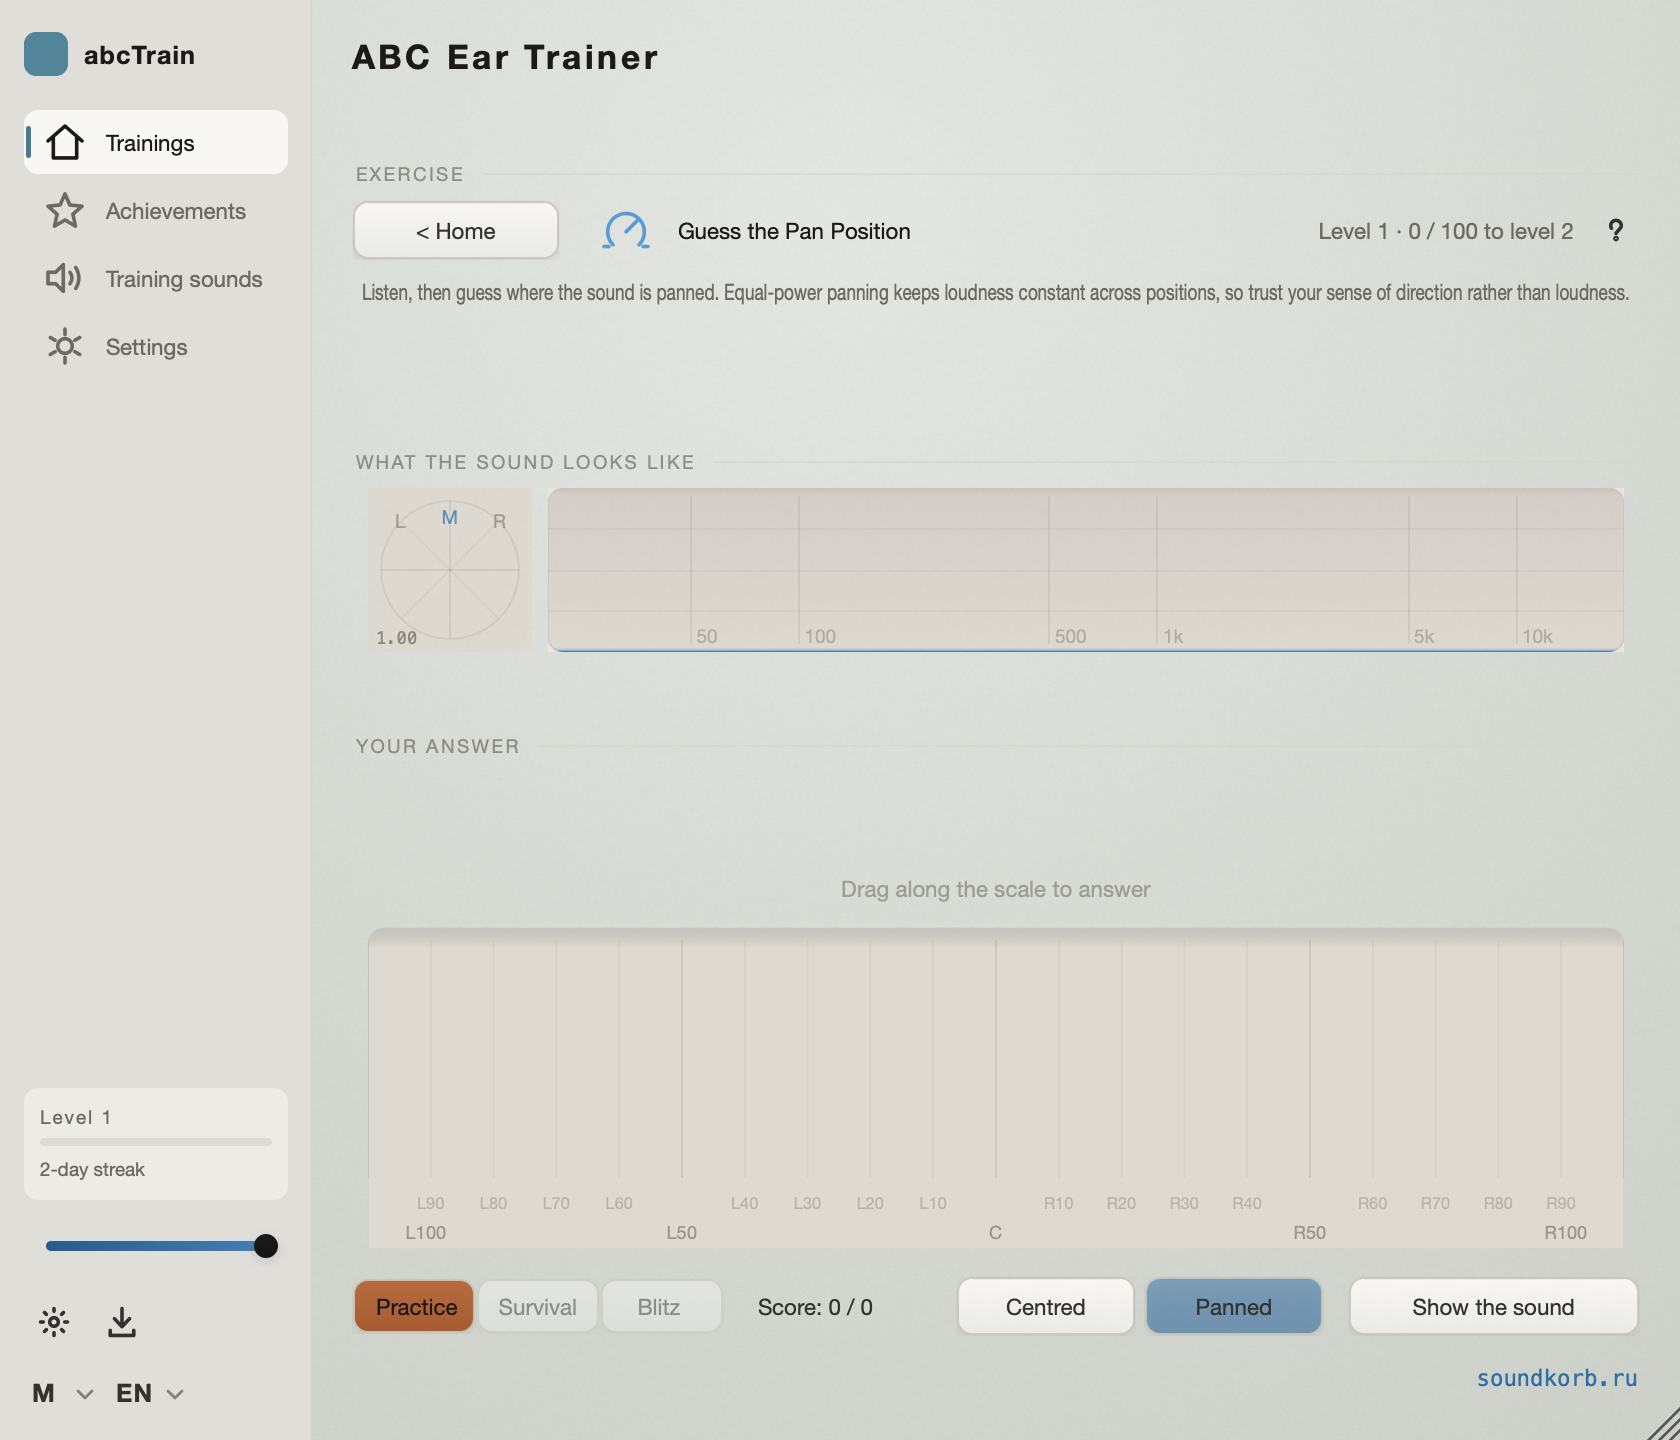
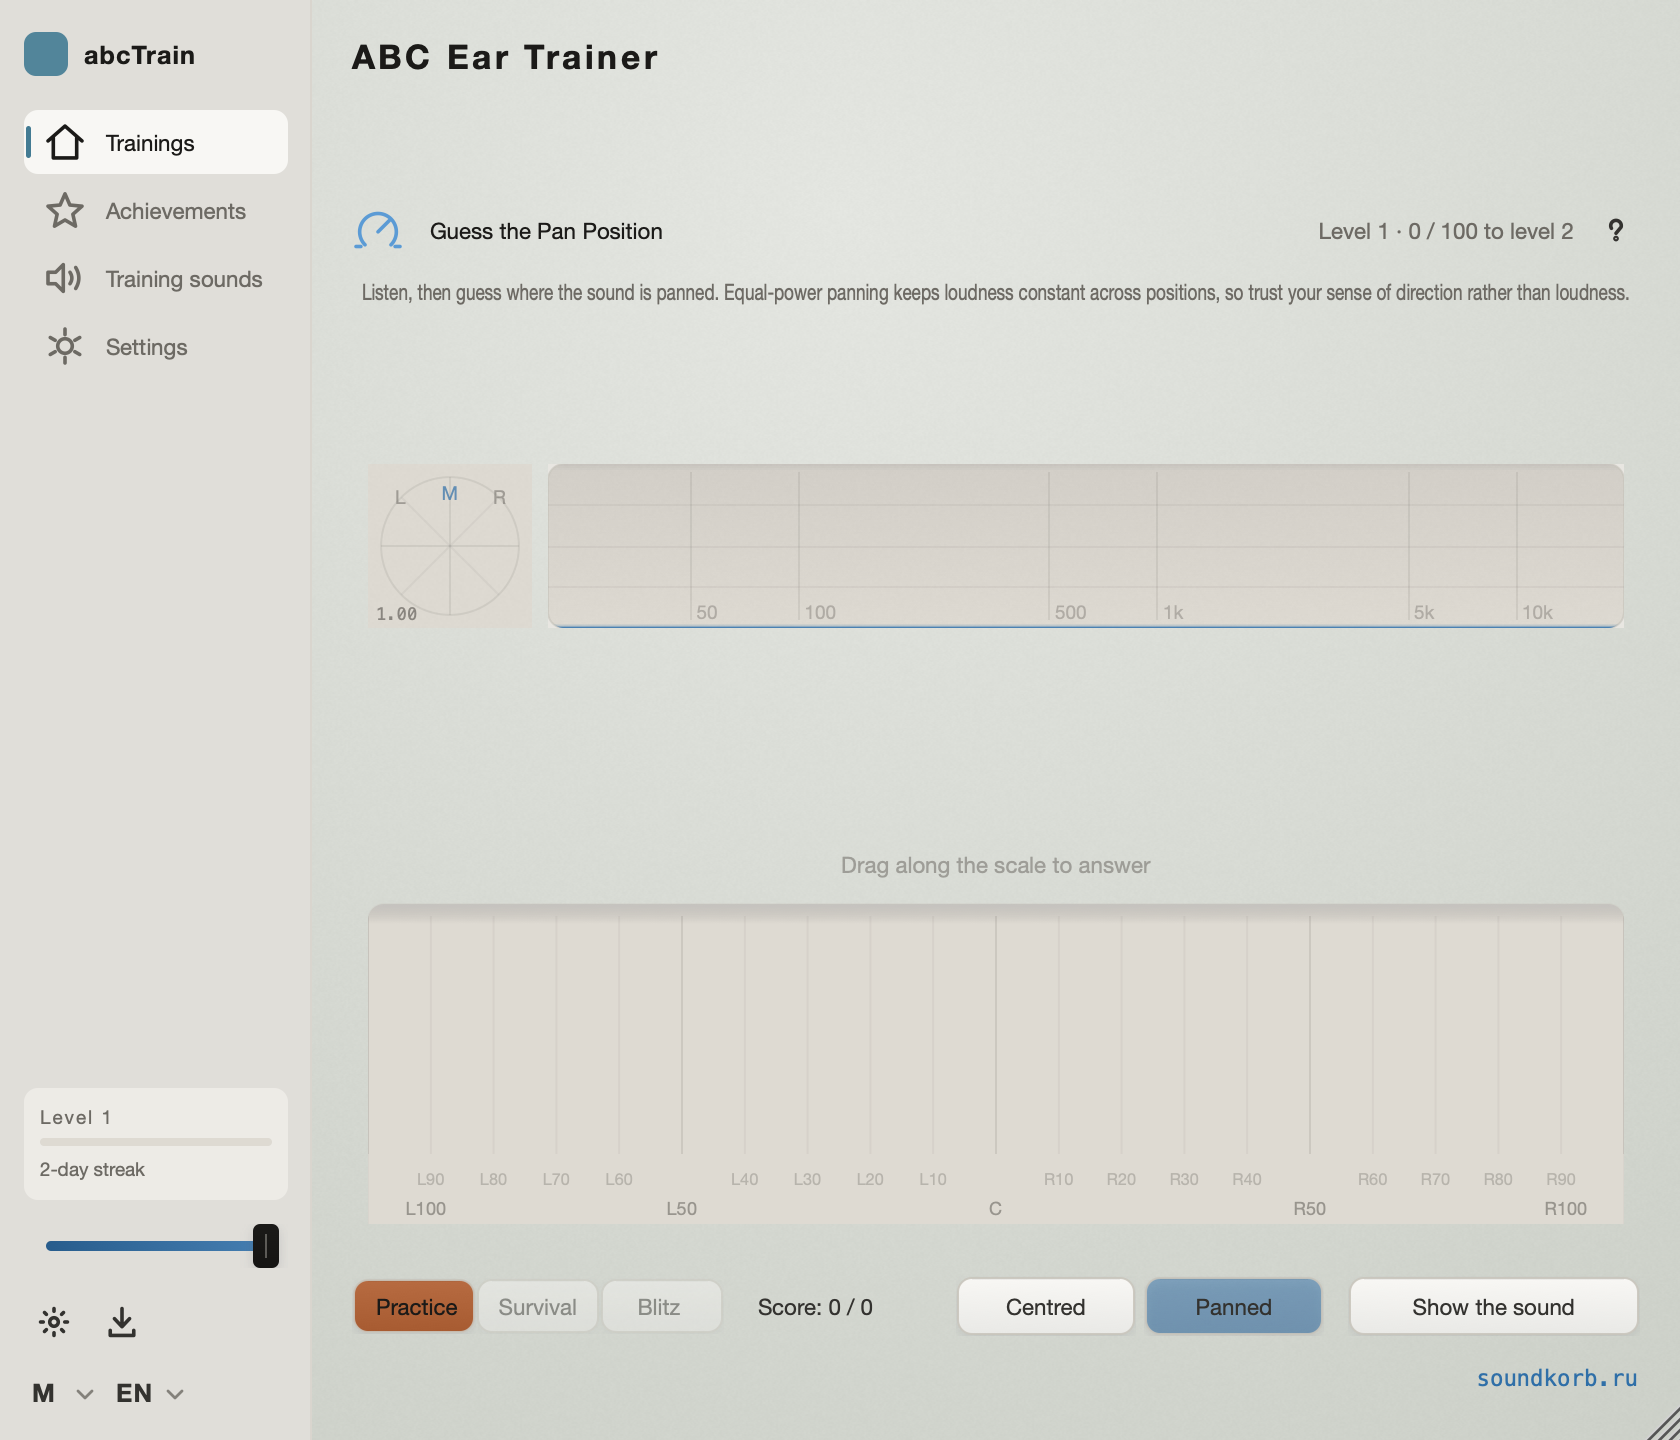
Grouping is a surface, not a line - and the back button was redundant
Three captioned rules ran down the training screen: "EXERCISE", "YOUR
ANSWER", "WHAT THE SOUND LOOKS LIKE", each a small-caps label with a
hairline trailing off to the right. Together they cut the window into
horizontal bands, which is the thing that made it read as a form.

Not one reference groups that way. Baby Audio puts a group's name inside
its own rounded panel; Soundtoys puts the controls on a physical plate;
FabFilter leaves space and nothing else. A rule is what you reach for
when the spacing has not been decided yet. The sections are still there -
they are separated by room now, which is what the room was for.

"< Home" is gone entirely, and not because it was ugly, though it was: a
chevron glyph and a word in a bordered box. It became *redundant* the
moment navigation moved into the rail, where "Trainings" is one of four
labelled rows. Two ways to the same screen is two things to keep in step,
and the worse of the two was sitting in the exercise's own title row.

The linear slider gets a fader cap instead of a dot. It was a circle of
radius 6 riding a 5px track - barely bigger than the groove, which marks
a position rather than offering a handle. Every hardware fader and every
plugin that imitates one has a cap clearly wider across the travel and
longer across it, because that shape is both what says "take hold here"
and what a cursor actually has to hit. With a grip line across it, which
is also the only thing that says which way it is oriented.
[…]

diff --git a/Source/PluginEditor.cpp b/Source/PluginEditor.cpp
@@ -381,8 +381,6 @@ EarTrainerEditor::EarTrainerEditor (EarTrainerProcessor& p)
     currentGameLabel.setFont (AbcTrainLookAndFeel::headingFont());
     addAndMakeVisible (currentGameLabel);
 
-    backButton.onClick = [this] { showScreen (Screen::home); };
-    addAndMakeVisible (backButton);
 
     homeScreen.onGameChosen = [this] (int index)
     {
@@ -987,19 +985,20 @@ void EarTrainerEditor::paint (juce::Graphics& g)
     // backdrop with only whitespace implying the grouping.
     if (currentScreen == Screen::training)
     {
-        // Headings, not boxes: three bordered panels cut one window into
-        // three pieces rather than organising it.
-        AbcTrainLookAndFeel::paintSectionHeading (g, exerciseSection.toFloat(),
-                                                   localisation.getText ("ui.sectionExercise"));
-        AbcTrainLookAndFeel::paintSectionHeading (g, answerSection.toFloat(),
-                                                   localisation.getText ("ui.sectionAnswer"));
-
-
-        // Only drawn when the hint has actually been bought - the panel
-        // does not exist otherwise, and neither does its heading.
-        if (hintRevealed && ! hintSection.isEmpty())
-            AbcTrainLookAndFeel::paintSectionHeading (g, hintSection.toFloat(),
-                                                       localisation.getText ("ui.sectionHint"));
+        // No captioned rules. There were three - "EXERCISE", "YOUR ANSWER",
+        // "WHAT THE SOUND LOOKS LIKE" - each a small-caps label with a
+        // hairline running off to the right, and together they cut the
+        // window into horizontal bands.
+        //
+        // Every reference worth copying groups with a *surface* and never
+        // with a line: Baby Audio puts the group's name inside its own
+        // rounded panel, Soundtoys puts controls on a physical plate,
+        // FabFilter simply leaves space. A rule is what you reach for when
+        // spacing has not been decided; three of them stacked down a
+        // window is a form, not an instrument.
+        //
+        // The sections are still there - they are just separated by room
+        // now, which is what the room was for.
     }
 
     // The title, letter-spaced. Drawn here rather than through a Label
@@ -1146,8 +1145,6 @@ void EarTrainerEditor::resized()
         // one control on this screen a lost player is looking for, and an
         // icon they have to decode is exactly the wrong shape for that.
         auto gameRow = inner.removeFromTop (30);
-        backButton.setBounds (gameRow.removeFromLeft (104).withSizeKeepingCentre (104, 30));
-        gameRow.removeFromLeft (Spacing::large);
         gameIcon.setBounds (gameRow.removeFromLeft (26).withSizeKeepingCentre (26, 26));
         gameRow.removeFromLeft (Spacing::small);
         instructionsButton.setBounds (gameRow.removeFromRight (24).withSizeKeepingCentre (22, 22));
@@ -1193,7 +1190,7 @@ void EarTrainerEditor::resized()
         hintSection = area.removeFromTop (hintPanelHeight);
 
         auto inner = hintSection;
-        inner.removeFromTop (Spacing::large);   // clear the section heading
+        inner.removeFromTop (Spacing::small);
 
         auto hintRow = inner.removeFromTop (hintRowHeight).reduced (Spacing::small, 0);
 
@@ -1266,7 +1263,12 @@ void EarTrainerEditor::resized()
         juce::jmax (304, area.getHeight() - toolBarReserve));
     {
         auto inner = answerSection;
-        inner.removeFromTop (Spacing::large);
+
+        // Was Spacing::large, clearing a section heading that no longer
+        // exists. A gap reserved for something that was deleted is just a
+        // gap, and this one sat between the instruction and the answer -
+        // the two things a player looks at in sequence.
+        inner.removeFromTop (Spacing::small);
 
         // The pips live beside the verdict line - the promotion test is
         // part of the answer moment, not part of the header. Reserved on
@@ -1328,8 +1330,14 @@ void EarTrainerEditor::resized()
         // obvious in a way the reasoning had not. Letting one control
         // reflow inside a window that never moves is the version with no
         // victim.
-        const auto maxScaleHeight = hintRevealed ? 210 : 210 + hintPanelHeight;
-        const auto scaleHeight = juce::jlimit (186, maxScaleHeight, inner.getHeight());
+        // Named alternatives and a ruler want different amounts of room.
+        // A ruler earns height - it is a value read off a scale, and a
+        // taller scale is a more precise one. Two words do not: past about
+        // 180px the cards stop being buttons and become walls.
+        const auto onRuler = processor.getGameManager().getActiveGame().usesContinuousScale();
+        const auto continuousMax = hintRevealed ? 210 : 210 + hintPanelHeight;
+        const auto maxScaleHeight = onRuler ? continuousMax : 190;
+        const auto scaleHeight = juce::jlimit (onRuler ? 186 : 150, maxScaleHeight, inner.getHeight());
 
         // Anchored to the top of what is left, not centred in it. Centring
         // put the spare room between the "Your answer" heading and the
@@ -1439,7 +1447,6 @@ void EarTrainerEditor::startTour()
     tour.addStep (&afterButton,      localisation.getText ("tour.step.ab"));
     tour.addStep (&choiceSlider,     localisation.getText ("tour.step.answer"));
     tour.addStep (&levelProgressLabel, localisation.getText ("tour.step.level"));
-    tour.addStep (&backButton,       localisation.getText ("tour.step.home"));
 
     tour.start();
 }
@@ -2061,7 +2068,7 @@ void EarTrainerEditor::showScreen (Screen screen)
         c->setVisible (! onSupport);
     }
 
-    for (auto* c : { (juce::Component*) &backButton, (juce::Component*) &gameIcon,
+    for (auto* c : { (juce::Component*) &gameIcon,
                      (juce::Component*) &currentGameLabel, (juce::Component*) &instructionLabel,
                      (juce::Component*) &feedbackLabel, (juce::Component*) &choiceSlider,
                      (juce::Component*) &practiceButton, (juce::Component*) &survivalButton,
@@ -2209,7 +2216,6 @@ void EarTrainerEditor::refreshLocalisedText()
                          localisation.getText ("ui.level").upToFirstOccurrenceOf ("{{", false, false).trim(),
                          localisation.getText ("ui.streak"));
 
-    backButton.setButtonText (localisation.getText ("ui.back"));
 
     {
         practiceButton.setButtonText (localisation.getText ("ui.modePractice"));

diff --git a/shared/AbcTrainLookAndFeel.cpp b/shared/AbcTrainLookAndFeel.cpp
@@ -530,26 +530,50 @@ void AbcTrainLookAndFeel::drawLinearSlider (juce::Graphics& g, int x, int y, int
     g.setGradientFill (fillGradient);
     g.fillRoundedRectangle (filled, trackThickness * 0.5f);
 
-    const auto thumbRadius = (6.0f + 1.6f * touch);
+    // A cap, not a dot.
+    //
+    // It was a circle of radius 6 sitting on a 5px track - barely larger
+    // than the groove it rides in, which is a dot marking a position
+    // rather than a handle you take hold of. Every hardware fader and
+    // every plugin that imitates one has a cap that is clearly wider
+    // across the travel than the track is thick, and clearly longer
+    // across the other axis: that shape is what says "grab here", and it
+    // is also what your finger or cursor actually has to hit.
+    const auto capThickness = 13.0f + 2.0f * touch;   // across the travel
+    const auto capLength = 22.0f + 3.0f * touch;      // across the track
     const auto thumbCentre = isHorizontal ? juce::Point<float> (sliderPos, track.getCentreY())
                                           : juce::Point<float> (track.getCentreX(), sliderPos);
-    const auto thumbBounds = juce::Rectangle<float> (thumbRadius * 2.0f, thumbRadius * 2.0f)
-                                  .withCentre (thumbCentre);
+
+    const auto thumbBounds = (isHorizontal
+                                  ? juce::Rectangle<float> (capThickness, capLength)
+                                  : juce::Rectangle<float> (capLength, capThickness))
+                                 .withCentre (thumbCentre);
+
+    const auto capRadius = 3.5f;
 
     if (touch > 0.001f)
     {
-        g.setColour (fillColour.withAlpha (0.22f * touch));
-        g.fillEllipse (thumbBounds.expanded (5.0f));
+        g.setColour (fillColour.withAlpha (0.20f * touch));
+        g.fillRoundedRectangle (thumbBounds.expanded (4.0f), capRadius + 3.0f);
     }
 
     juce::Path thumbPath;
-    thumbPath.addEllipse (thumbBounds);
-    dropShadowForPath (g, thumbPath, 0.35f, 5, { 0, 2 });
+    thumbPath.addRoundedRectangle (thumbBounds, capRadius);
+    dropShadowForPath (g, thumbPath, 0.38f, 6, { 0, 2 });
 
     juce::ColourGradient thumbGradient (t.textBright, thumbBounds.getX(), thumbBounds.getY(),
-                                         t.textBright.darker (0.22f), thumbBounds.getX(), thumbBounds.getBottom(), false);
+                                         t.textBright.darker (0.26f), thumbBounds.getX(), thumbBounds.getBottom(), false);
     g.setGradientFill (thumbGradient);
-    g.fillEllipse (thumbBounds);
+    g.fillRoundedRectangle (thumbBounds, capRadius);
+
+    // One line across the cap, where a fader's grip line goes. It is also
+    // the only thing that tells you which way the cap is oriented.
+    g.setColour (t.displayBackground.withAlpha (0.35f));
+
+    if (isHorizontal)
+        g.fillRect (thumbBounds.getCentreX() - 0.5f, thumbBounds.getY() + 5.0f, 1.0f, thumbBounds.getHeight() - 10.0f);
+    else
+        g.fillRect (thumbBounds.getX() + 5.0f, thumbBounds.getCentreY() - 0.5f, thumbBounds.getWidth() - 10.0f, 1.0f);
 }
 
 // ----------------------------------------------------------- combo/menu

diff --git a/Source/PluginEditor.h b/Source/PluginEditor.h
@@ -896,7 +896,6 @@ private:
     // A labelled button, not a house glyph: "how do I get back" is the
     // question a lost player asks, and an icon they have to decode is the
     // wrong shape for the answer.
-    juce::TextButton backButton;
     juce::Label currentGameLabel;
     juce::Label instructionLabel;
     juce::Label scoreLabel;
